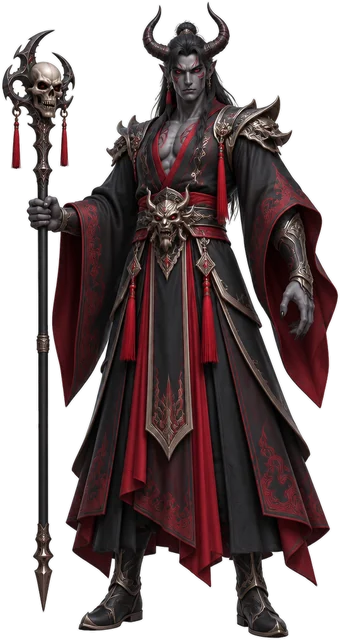
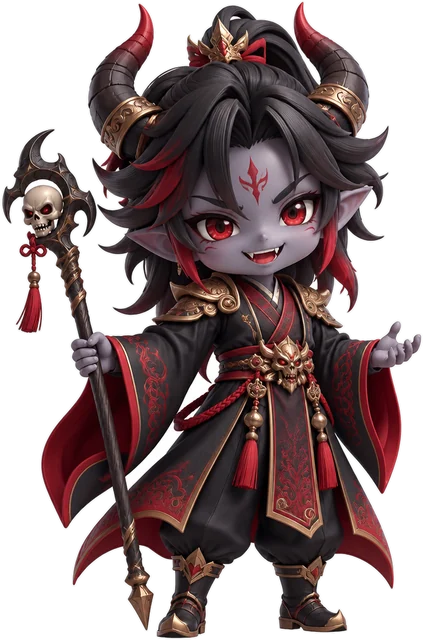
v5.0.1: chibi art for all puppets and the chapter 7 boss
Claude-Session: https://claude.ai/code/session_01RC2DPz8fZLyrHj4x6sxskF

diff --git a/index.html b/index.html
@@ -259,7 +259,7 @@ const MODEL_DEF={
  frostwolf:{url:'models/mob_frostwolf.glb',fallback:'wolf',quad:true,geoYaw:-Math.PI/2,h:1.2,glow:{h:188,w:16,v:0.65,s:0.35,i:2.4,pcol:0xbff4ff,rate:15}},
  prop_meteor:{url:'models/prop_meteor.glb',prop:true},prop_ice:{url:'models/prop_ice.glb',prop:true},prop_pagoda:{url:'models/prop_pagoda.glb',prop:true}
 };
-const BUILD='5.0';/* v4.2 */const IS_HOMESCREEN=!!(navigator.standalone||(window.matchMedia&&matchMedia('(display-mode: standalone)').matches));
+const BUILD='5.0.1';/* v4.2 */const IS_HOMESCREEN=!!(navigator.standalone||(window.matchMedia&&matchMedia('(display-mode: standalone)').matches));
 (function selfUpdate(){try{if(!/^https?:/.test(location.protocol)||location.hostname.endsWith('claude.ai')||location.hostname.includes('claudeusercontent'))return;
  fetch(location.pathname+'?check='+Date.now(),{cache:'no-store'}).then(r=>r.text()).then(t=>{const m=t.match(/const BUILD='([^']+)'/);if(!m||m[1]===BUILD)return;
   const k='xn_upd_'+m[1];if(sessionStorage.getItem(k))return;sessionStorage.setItem(k,'1');location.replace(location.pathname+'?v='+m[1])}).catch(()=>{})}catch(e){}})();
@@ -360,32 +360,32 @@ const SKT=[
 const SKT_BY=Object.fromEntries(SKT.map(k=>[k.id,k]));
 /* ===== PUPPETS 傀儡 v5 — 7 puppets, each with 3 own skills, 3 evolution stages ===== */
 const PUPS=[
- {id:'sword',ch:-1,el:'sword',col:0xbfe0ff,css:'#bfe0ff',melee:1,h:[1.6,1.68,1.75],
+ {id:'sword',ch:-1,el:'sword',col:0xbfe0ff,css:'#bfe0ff',melee:1,h:[1.55,1.62,1.7],
   cn:['剑童','剑修','剑仙'],en:['Sword Youth','Sword Cultivator','Sword Immortal'],desc:'凡人少年，一步步修成剑仙 · A mortal boy who grows into a sword immortal',
   sk:[['疾风剑','Swift Slash','ps_sword0',5,ppDash,['疾冲一剑','进阶：双重疾斩','极：三连斩 + 剑气']],
       ['剑气纵横','Sword Qi Barrage','ps_sword1',8,ppQi,['三道剑气','进阶：五道剑气','极：七道剑气 + 巨型剑气']],
       ['御剑诀','Flying Swords','ps_sword2',14,ppFly,['御使四剑','进阶：七剑齐飞','极：十二飞剑']]]},
- {id:'mantis',ch:0,el:'sword',col:0x5aff8a,css:'#7affa0',melee:1,h:[1.75,1.9,2.05],
+ {id:'mantis',ch:0,el:'sword',col:0x5aff8a,css:'#7affa0',melee:1,h:[1.5,1.65,1.8],
   cn:['灵螳','玄甲螳','螳皇'],en:['Spirit Mantis','Armored Mantis','Mantis King'],desc:'神秘螳螂，以双臂利刃斩敌 · A mystical mantis with blade arms',
   sk:[['螳臂斩','Scythe X-Slash','ps_mantis0',5,ppX,['十字斩','进阶：双重十字斩','极：十字斩 + 飞刃']],
       ['旋刃风暴','Blade Whirl','ps_mantis1',9,ppWhirl,['旋身刃风','进阶：刃风更大更久','极：刃风追敌']],
       ['千刃斩','Thousand Cuts','ps_mantis2',14,ppCuts,['八连斩','进阶：十四连斩','极：二十二斩 + 终结十字']]]},
- {id:'orc',ch:1,el:'sword',col:0xffa040,css:'#ffb060',melee:1,h:[2.0,2.15,2.3],
+ {id:'orc',ch:1,el:'sword',col:0xffa040,css:'#ffb060',melee:1,h:[1.6,1.75,1.9],
   cn:['四臂魔兵','四臂战魔','四臂魔帝'],en:['Orc Brawler','Orc Champion','Orc Titan'],desc:'远古四臂兽人，拳拳到肉 · An ancient four-armed orc fighter',
   sk:[['四臂连拳','Four-Fist Barrage','ps_orc0',5,ppFists,['四连拳','进阶：八连拳','极：十二连拳']],
       ['碎地击','Ground Smash','ps_orc1',9,ppSmash,['跃起砸地','进阶：裂地更长','极：双重砸地']],
       ['天崩拳','Sky-Breaking Fist','ps_orc2',15,ppSkyFist,['巨拳天降','进阶：巨拳更大','极：三拳崩天']]]},
- {id:'demon',ch:2,el:'dark',col:0xff2a4a,css:'#ff6a80',melee:0,h:[1.8,1.9,2.0],
+ {id:'demon',ch:2,el:'dark',col:0xff2a4a,css:'#ff6a80',melee:0,h:[1.6,1.7,1.8],
   cn:['魔卫','血魔卫','魔卫之主'],en:['Demon Guard','Blood Demon Guard','Demon Guardian Lord'],desc:'邪恶魔卫，诅咒与血咒 · An evil guardian of curses and blood',
   sk:[['血咒','Blood Curse','ps_demon0',6,ppCurse,['诅咒一敌','进阶：诅咒三敌','极：诅咒五敌，咒爆']],
       ['血矛','Blood Spears','ps_demon1',9,ppSpears,['一道血矛','进阶：三道血矛','极：五道血矛']],
       ['血月祭','Blood Moon Ritual','ps_demon2',15,ppMoon,['血月吸魂，为主人回血','进阶：血月更大','极：血月爆裂']]]},
- {id:'dragon',ch:3,el:'fire',el2:'ice',col:0xff6a3a,css:'#ff9a7a',melee:0,h:[1.45,1.75,2.1],float:0.15,
+ {id:'dragon',ch:3,el:'fire',el2:'ice',col:0xff6a3a,css:'#ff9a7a',melee:0,h:[1.15,1.35,1.6],float:0.15,
   cn:['双首幼龙','冰火双龙','太古双首龙'],en:['Twin-Head Whelp','Fire-Ice Dragon','Ancient Twin Dragon'],desc:'冰火双首龙，一首喷火一首吐冰 · A two-headed dragon of fire and ice',
   sk:[['冰火吐息','Fire & Ice Breath','ps_dragon0',6,ppBreath,['双息喷吐','进阶：吐息更久','极：吐息更远更猛']],
       ['冰火流星','Fire-Ice Meteors','ps_dragon1',10,ppMeteors,['四颗流星','进阶：七颗流星','极：十一颗流星']],
       ['阴阳龙卷','Yin-Yang Dragons','ps_dragon2',16,ppYinYang,['火龙出击','进阶：冰火双龙','极：双龙缠绕 + 终爆']]]},
- {id:'space',ch:4,el:'thunder',col:0xb48aff,css:'#c9a0ff',melee:0,h:[1.8,1.9,2.05],
+ {id:'space',ch:4,el:'thunder',col:0xb48aff,css:'#c9a0ff',melee:0,h:[1.6,1.7,1.85],
   cn:['星域武者','星河战将','宇宙战神'],en:['Star Warrior','Galaxy General','Universe War God'],desc:'来自星空的远古战士，撕裂空间 · An ancient warrior from space who splits space',
   sk:[['空间斩','Void Slash','ps_space0',6,ppRift,['一道空间裂痕','进阶：双重裂痕','极：三重裂痕 + 空爆']],
       ['星门','Star Gate','ps_space1',10,ppGate,['星门吞噬','进阶：星门更强','极：双星门']],
